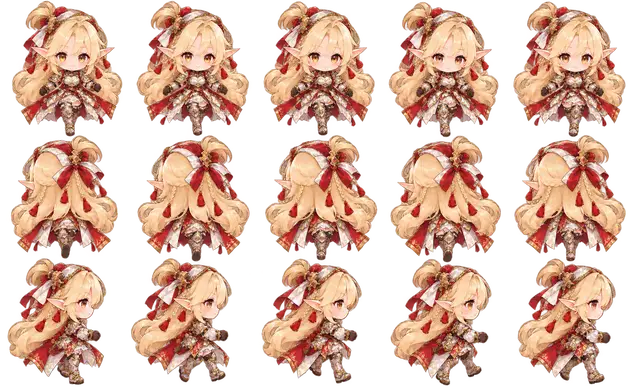
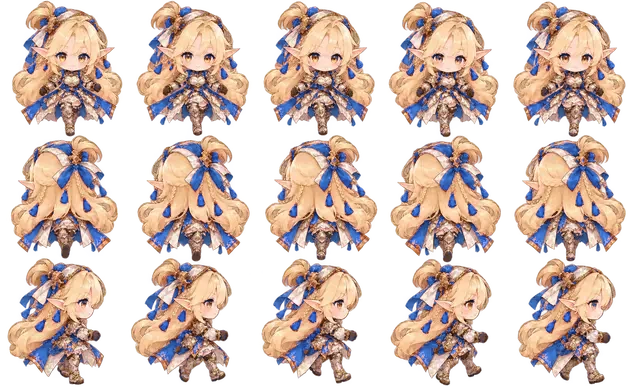
주인공 창기사 옷 빨강→파랑(검사 옷과 구분), 원본 보관
Claude-Session: https://claude.ai/code/session_011LLFgXL2gE2cujxs1GaS93

diff --git a/docs/WORKLOG.md b/docs/WORKLOG.md
@@ -1413,3 +1413,5 @@
 - ui.js zoneAt: 가운데 원(반지름 36%) 안 = 지금 무기로 공격만, 두 방향 차이 20% 안의 대각선 = 무기 그대로, 가장자리를 확실히 눌러야 무기 변경.
 - 크기: #cluster 124→161px(휴대폰 93→121px), 스킬 칸 위치는 1.12배 바깥으로.
 - 남은 요청(모아 둠): 주인공이 창을 들 때 창기사 옷에 푸른 느낌 덧씌우기.
+- (같은 날 추가) 주인공 창기사 옷: 검사 옷과 같은 빨강이라 구분이 안 됨 → spear.webp의 빨강 옷감만 파랑(색상 218°)으로 바꿈. 눈·피부·머리는 그대로. 원본은 source_sheets/elf_classes_orig/spear_red.webp.
+- 반성: 케인이 "올려"라고 하면 모아 둔 목록 전부를 한 번에 반영할 것(일부 남기면 올리기·대기가 두 번 생김).
